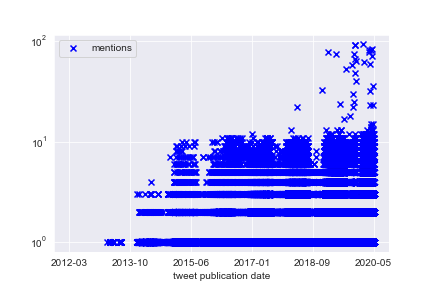
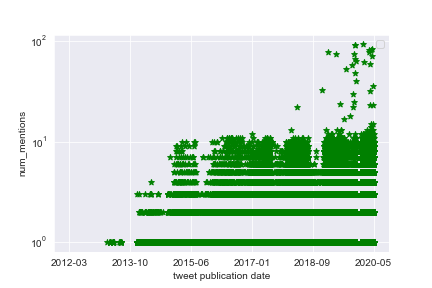
generalize plots in DataUnderstandingPlots

diff --git a/utilities.py b/utilities.py
@@ -107,19 +107,7 @@ def date_labels(df, attr, format='M', axis='x', n_ticks = 6):
     if axis == 'y':
         plt.yticks(indices, labels=pd.to_datetime(indices).to_period(format))
 
-def plot_scatter(df, x_attr, y_attr, path=None, log=False, date_axis=None, xlabel=None, ylabel=None):
-    """
-
-    :param df:
-    :param x_attr:
-    :param y_attr:
-    :param path:
-    :param log:
-    :param date_axis: None, 'x', 'y', or 'both'. If there is some timestamp dimension, pass the respective axis to convert the ticks in human readable format.
-    :return:
-    """
-    plt.scatter(df[x_attr], df[y_attr], color='g', marker='*', )
-
+def _scatter_show(df, x_attr, y_attr, path=None, log=False, date_axis=None, xlabel=None, ylabel=None):
     if xlabel is None:
         plt.xlabel(x_attr)
     else:
@@ -144,20 +132,31 @@ def plot_scatter(df, x_attr, y_attr, path=None, log=False, date_axis=None, xlabe
     else:
         plt.savefig(path)
 
+def plot_scatter(df, x_attr, y_attr, path=None, log=False, date_axis=None, xlabel=None, ylabel=None):
+    """
+
+    :param df: dataframe containing x_attr, y_attr
+    :param x_attr: dataframe attribute to put on the x axis.
+    :param y_attr: dataframe attribute to put on the y axis.
+    :param path: path where to save the plot. If none just calls plt.show().
+    :param log: boolean. Whether to use or not log scale on y axis.
+    :param date_axis: None, 'x', 'y', or 'both'. If there is some timestamp dimension, pass the respective axis to convert the ticks in human readable format.
+    :return:
+    """
+    plt.scatter(df[x_attr], df[y_attr], color='g', marker='*')
+    _scatter_show(df, x_attr, y_attr, log=log, path=path, date_axis=date_axis, xlabel=xlabel, ylabel=ylabel)
+
+
+
+def bot_scatter(df, x_attr, y_attr, log=False, path=None, date_axis=None, xlabel=None, ylabel=None):
+    plt.scatter(df[df['bot'] == 0][x_attr],
+                df[df['bot'] == 0][y_attr], color='g', marker='*', label='Non-bot user')
+    plt.scatter(df[df['bot'] == 1][x_attr],
+                df[df['bot'] == 1][y_attr], color='r', marker='2', label='Bot user')
+
+    _scatter_show(df, x_attr, y_attr, log=log, path=path, date_axis=date_axis, xlabel=xlabel, ylabel=ylabel)
 
 def lang_scatter(df, attr, log=False, path=None):
     plt.figure(figsize=(10, 5))
-    plt.scatter(df[df['bot'] == 0]['lang'],
-                df[df['bot'] == 0][attr], color='g', marker='*', label='Non-bot user')
-    plt.scatter(df[df['bot'] == 1]['lang'],
-                df[df['bot'] == 1][attr], color='r', marker='2', label='Bot user')
-    plt.xlabel('lang')
-    plt.ylabel(attr)
-    if log:
-        plt.yscale('log')
-    plt.legend()
-    if path is None:
-        plt.show()
-    else:
-        plt.savefig(path)
+    bot_scatter(df, 'lang', attr, log, path)
 
